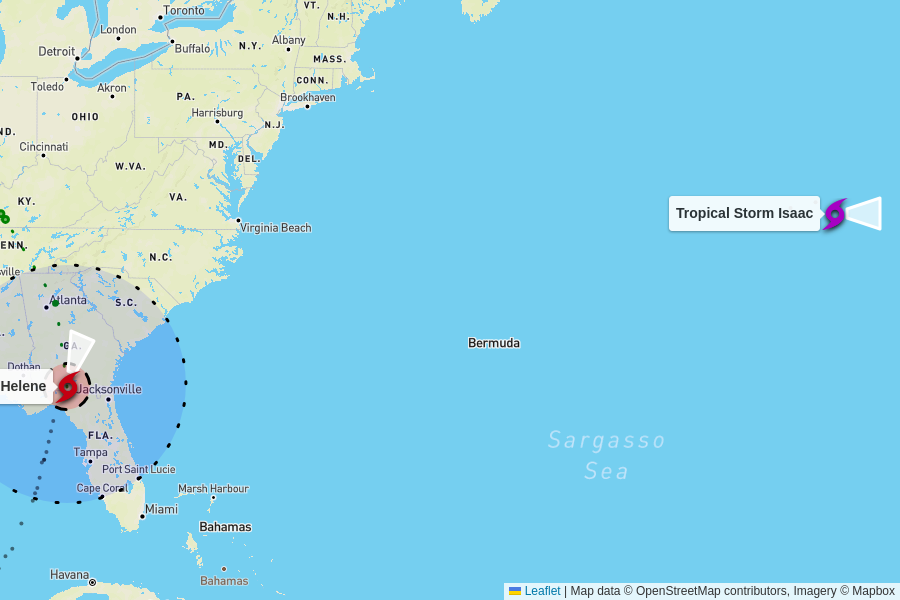
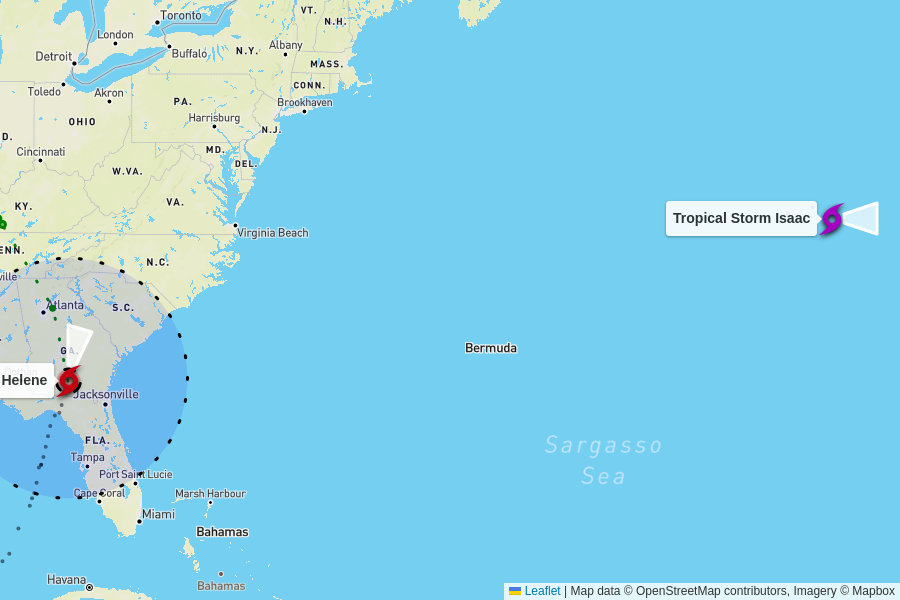
automatic update

diff --git a/docs/index.html b/docs/index.html
@@ -101,10 +101,10 @@
 
     <table>
       <tr>
-        <td colspan="6" class="storm category-2" >
+        <td colspan="6" class="storm category-1" >
           <h2>
-            Hurricane Helene - Category 2
-            <p class="updated">last updated <span data-time>2024-09-27T05:00:00.000Z</span></p>
+            Hurricane Helene - Category 1
+            <p class="updated">last updated <span data-time>2024-09-27T06:00:00.000Z</span></p>
           </h2>
         </td>
       </tr>
@@ -119,12 +119,12 @@
       </tr>
       <tr>
         <td class="spacer"></td>
-        <td>110 mph<br>-30 mph since last update</td>
-        <td>950 mb<br>+12 mb since last update</td>
+        <td>90 mph<br>-20 mph since last update</td>
+        <td>955 mb<br>+5 mb since last update</td>
         <td>
           26 mph to the north-northeast
           <br/>
-          <span style="display: inline-block; font-size: 1.5em; transform: rotate(20deg);">↑</span>
+          <span style="display: inline-block; font-size: 1.5em; transform: rotate(15deg);">↑</span>
         </td>
         <td><a href="https://raw.githubusercontent.com/mgwalker/atlantic-hurricanes/main/data/csv/AL092024.csv">AL092024.csv</a></td>
         <td><a href="https://www.nhc.noaa.gov/archive/2024/HELENE.shtml?">NHC advisories</a></td>
